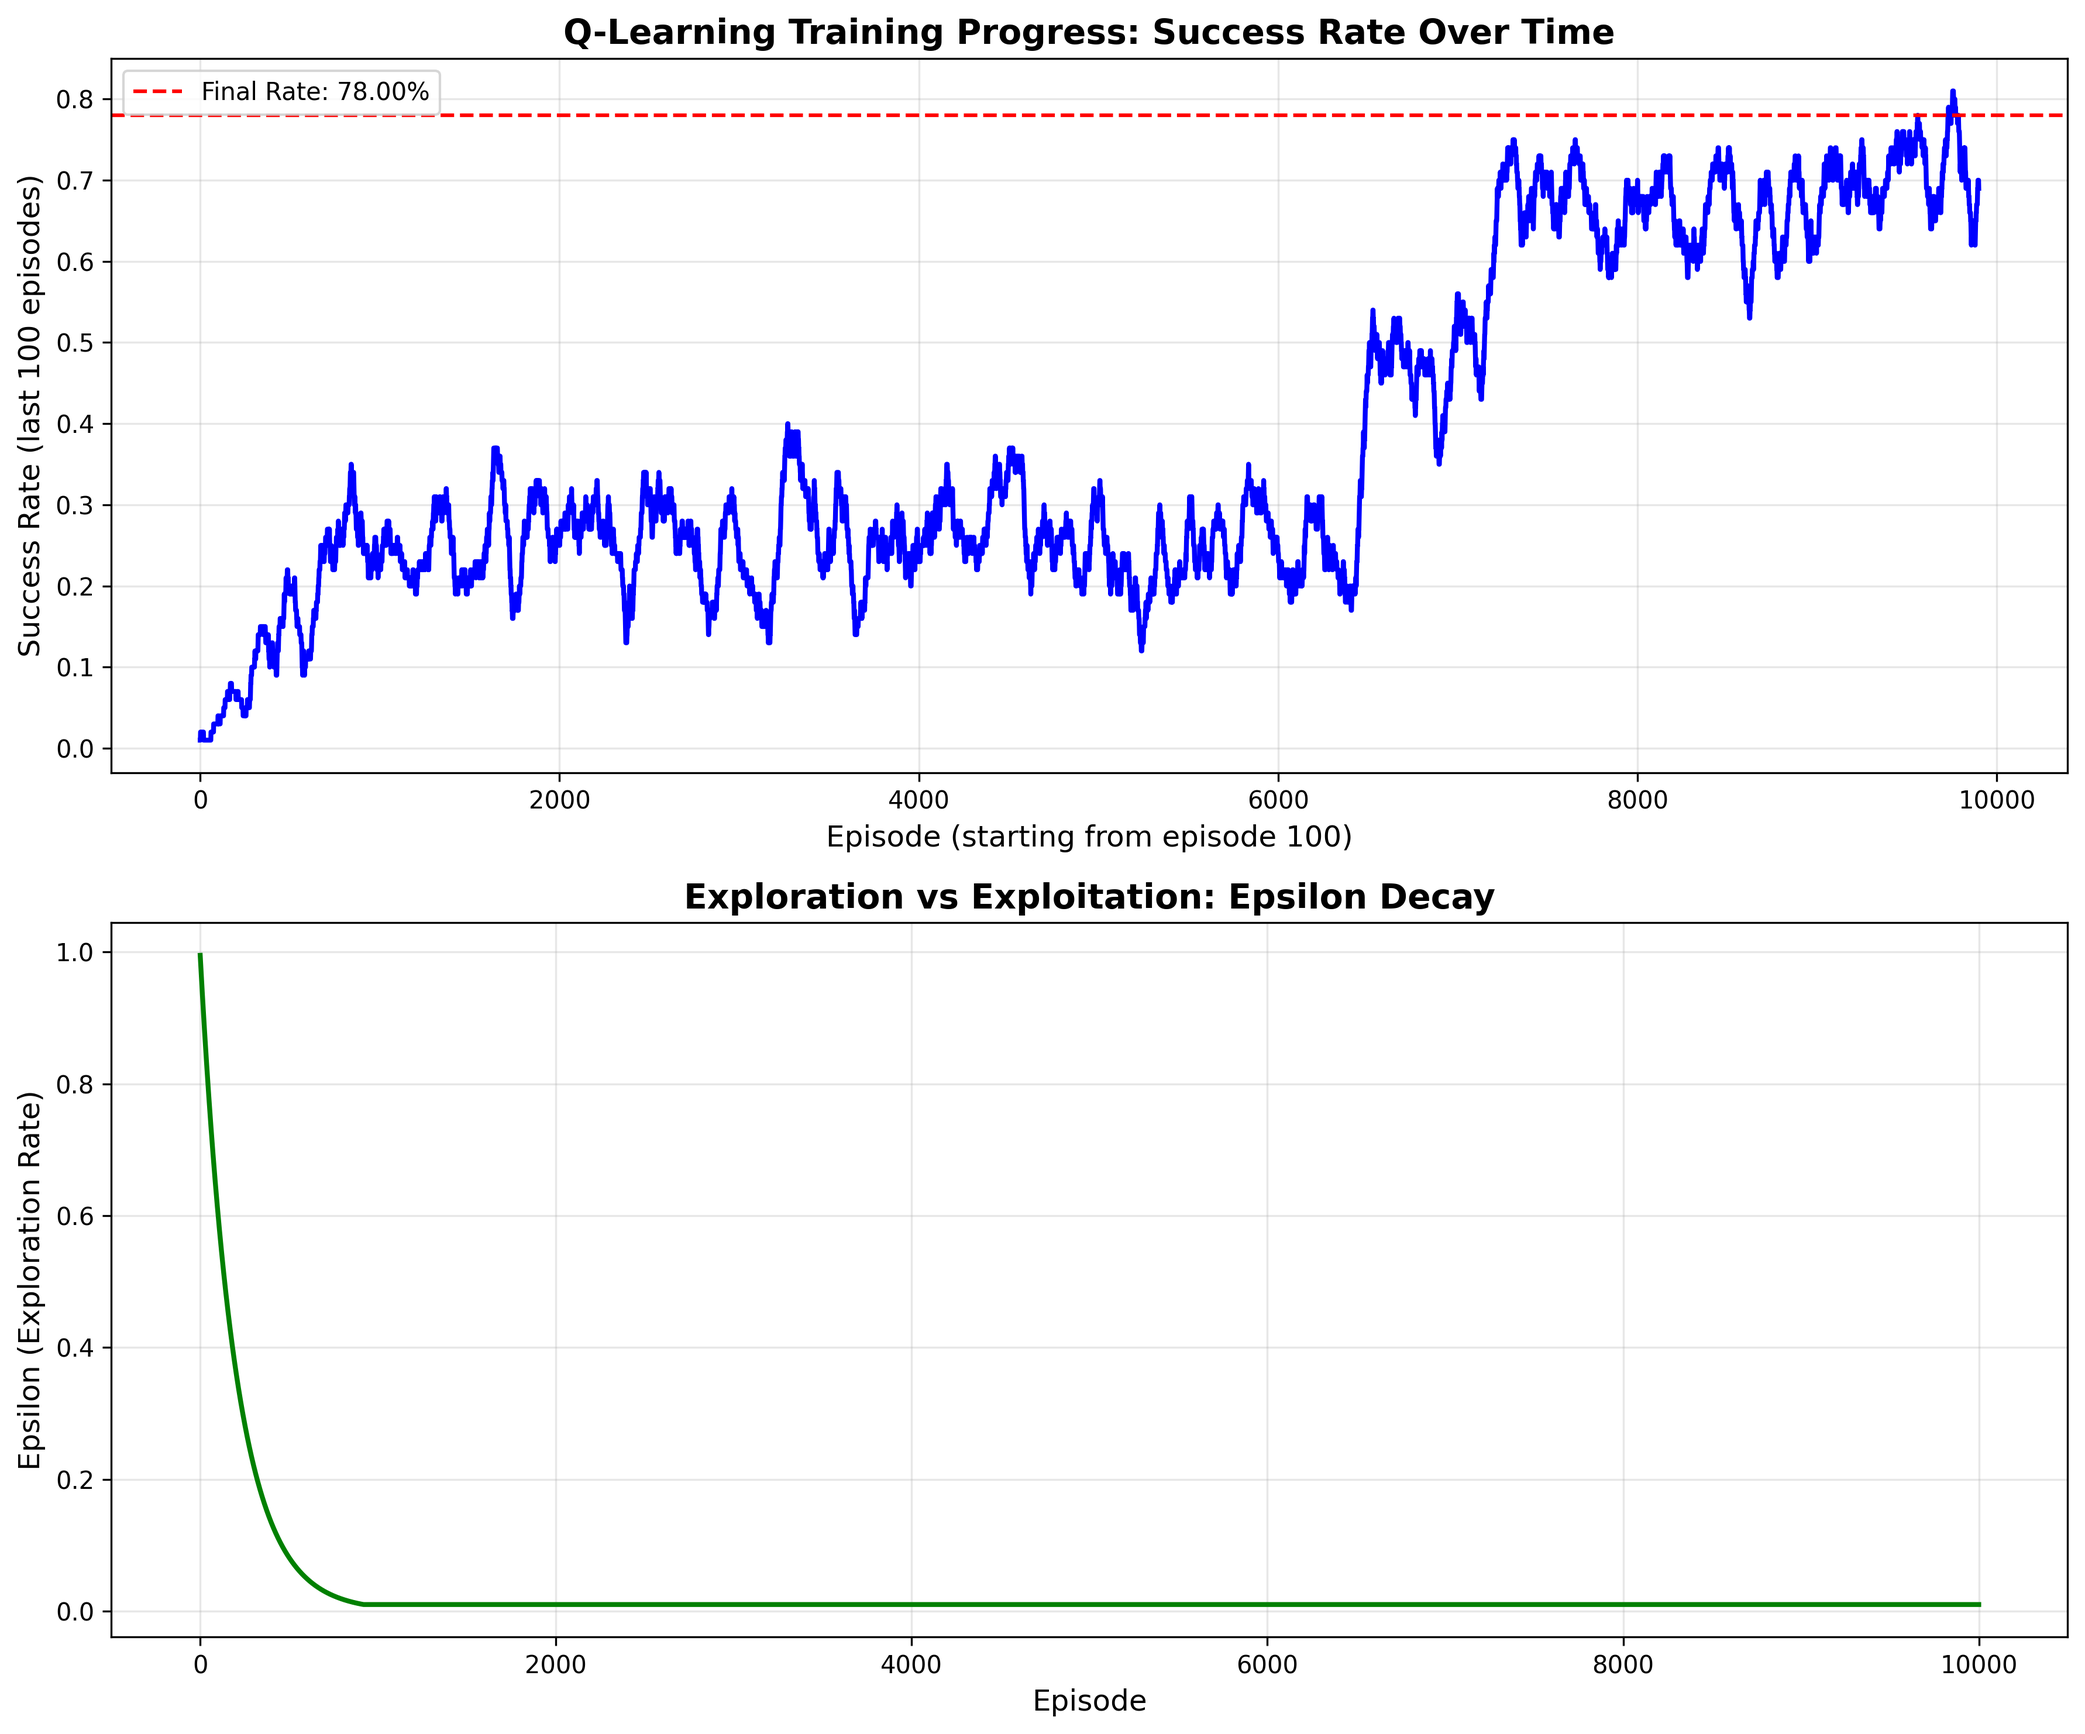
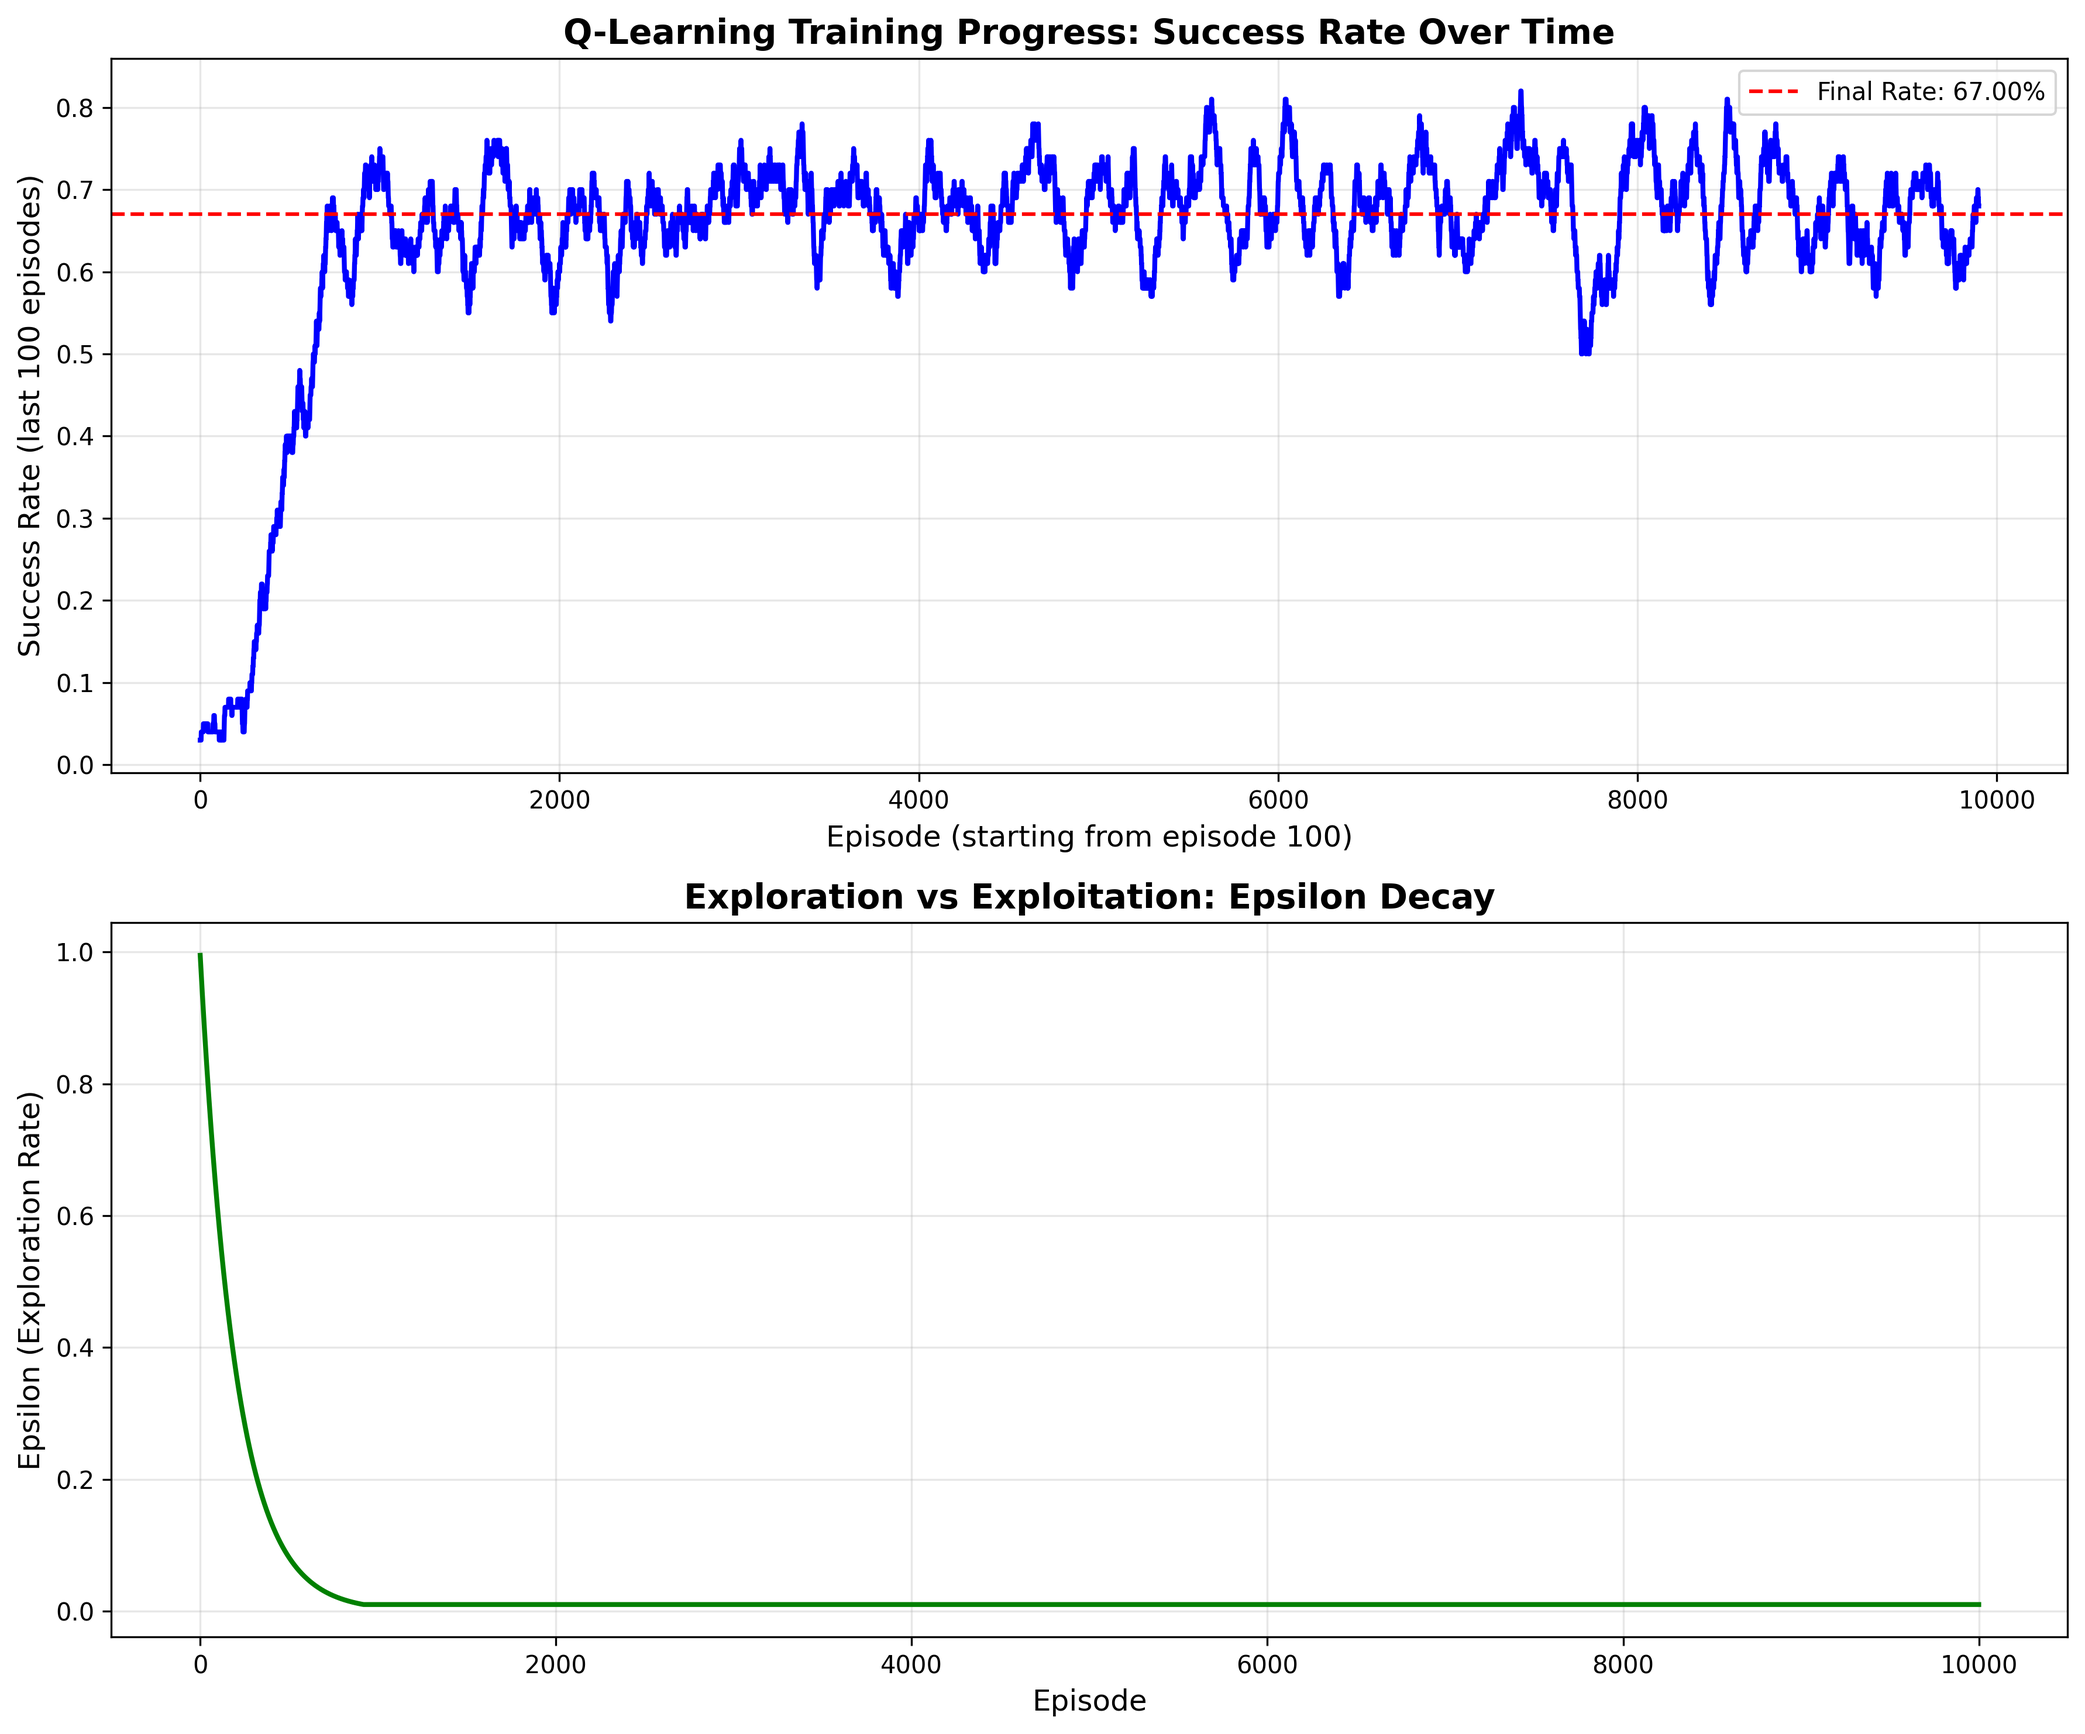
Enhance FrozenLake environment setup with Q-learning implementation and step-by-step playback feature

Changed region(s): [[0.0934, 0.031, 0.9966, 0.2794], [0.0934, 0.1862, 0.654, 0.4345]]

diff --git a/frozenlake_02.py b/frozenlake_02.py
@@ -1,31 +1,205 @@
+# ================================
+# FrozenLake Q-learning (with Step Playback)
+# ================================
+# Install (if needed):
+#   pip install gymnasium
+# Optional (only for 'human' windowed renders): pip install pygame
+
 import gymnasium as gym
-import time 
-# Create the FrozenLake environment (deterministic version for initial setup)
-# env = gym.make('FrozenLake-v1', is_slippery=False, render_mode='ansi')
-env = gym.make('FrozenLake-v1', map_name="4x4", is_slippery=True, render_mode='ansi') 
+import numpy as np
+import time
+from typing import Tuple
 
-# Reset the environment to get the initial state
-state, info = env.reset() 
-env.render()
-# state = env.reset()
+# ---------------------------
+# 1) Create the environment
+# ---------------------------
+# Slippery version (stochastic), as in typical labs:
+env = gym.make("FrozenLake-v1", map_name="4x4", is_slippery=True, render_mode="ansi")
 
-print("Initial state:", state)
-print("Environment render:")
-print(env.render())
-print("Action space:", env.action_space)
-print("Observation space:", env.observation_space)
+n_states = env.observation_space.n
+n_actions = env.action_space.n
 
+print("Action space:", env.action_space)            # Discrete(4)
+print("Observation space:", env.observation_space)  # Discrete(16)
 
+# ---------------------------
+# (Optional) Quick random run
+# ---------------------------
+def play_random_episode(env, sleep: float = 0.2):
+    state, info = env.reset()
+    done = False
+    total_reward = 0
+    print("\nRandom policy episode (for illustration):")
+    print(env.render())
+    while not done:
+        action = env.action_space.sample()
+        next_state, reward, terminated, truncated, info = env.step(action)
+        done = terminated or truncated
+        total_reward += reward
+        print(env.render())
+        time.sleep(sleep)
+        state = next_state
+    print(f"Finished. Reward: {total_reward}")
 
-done = False 
-state, info = env.reset() 
-env.render() 
- 
-while not done: 
-    action = env.action_space.sample()  # Pick a random action 
-    state, reward, done, truncated, info = env.step(action) 
-    env.render() 
-    time.sleep(1)  # Pause to see each move 
-    if done: 
-        print(f"Episode finished. Reward: {reward}") 
-        break
+# Uncomment to see a single random episode:
+# play_random_episode(env)
+
+# ---------------------------------------
+# 2) Q-learning hyperparameters & memory
+# ---------------------------------------
+Q = np.zeros((n_states, n_actions), dtype=np.float32)
+
+alpha = 0.1         # learning rate
+gamma = 0.99        # discount factor
+epsilon = 1.0       # starting exploration rate
+epsilon_min = 0.01
+epsilon_decay = 0.9995    # decay per episode (tune as desired)
+episodes = 30000          # more episodes helps slippery lake converge
+max_steps_per_episode = 200
+
+rng = np.random.default_rng(42)  # reproducible exploration
+
+def epsilon_greedy_action(state: int) -> int:
+    if rng.random() < epsilon:
+        return env.action_space.sample()
+    return int(np.argmax(Q[state]))
+
+# ----------------------------
+# 3) Training loop (Q-learning)
+# ----------------------------
+def train():
+    global epsilon
+    rewards_history = []
+    for ep in range(episodes):
+        state, info = env.reset()
+        total_reward = 0
+
+        for t in range(max_steps_per_episode):
+            action = epsilon_greedy_action(state)
+            next_state, reward, terminated, truncated, info = env.step(action)
+            done = terminated or truncated
+
+            # Q-learning update
+            best_next = np.max(Q[next_state])
+            td_target = reward + gamma * best_next * (0 if done else 1)
+            Q[state, action] = (1 - alpha) * Q[state, action] + alpha * td_target
+
+            state = next_state
+            total_reward += reward
+            if done:
+                break
+
+        # epsilon decay
+        epsilon = max(epsilon_min, epsilon * epsilon_decay)
+        rewards_history.append(total_reward)
+
+        # occasional training log
+        if (ep + 1) % 5000 == 0:
+            avg_last_5k = np.mean(rewards_history[-5000:])
+            print(f"Episode {ep+1}/{episodes} | epsilon={epsilon:.3f} | "
+                  f"Avg reward (last 5k): {avg_last_5k:.3f}")
+    return rewards_history
+
+print("\n=== Training Q-learning agent on FrozenLake-v1 (slippery) ===")
+train_rewards = train()
+
+# ---------------------------------
+# 4) Derive greedy policy from Q(s)
+# ---------------------------------
+policy = np.argmax(Q, axis=1)  # shape: (n_states,)
+
+# Actions: 0=LEFT, 1=DOWN, 2=RIGHT, 3=UP
+action_to_arrow = {0: "←", 1: "↓", 2: "→", 3: "↑"}
+action_to_name = {0: "LEFT", 1: "DOWN", 2: "RIGHT", 3: "UP"}
+
+def decode_map(env) -> np.ndarray:
+    desc = env.unwrapped.desc  # bytes array of shape (nrow, ncol)
+    grid = np.array([[c.decode("utf-8") for c in row] for row in desc])
+    return grid
+
+def print_policy_grid(env, policy):
+    grid = decode_map(env)
+    nrow, ncol = grid.shape
+    out = []
+    for s in range(n_states):
+        r, c = divmod(s, ncol)
+        cell = grid[r, c]
+        if cell in ("S", "H", "G"):
+            out.append(cell)
+        else:
+            out.append(action_to_arrow[int(policy[s])])
+    print("\nLearned greedy policy (arrows). S=start, G=goal, H=hole:")
+    for r in range(nrow):
+        row_str = " ".join(out[r*ncol:(r+1)*ncol])
+        print(row_str)
+
+print_policy_grid(env, policy)
+
+# ------------------------------------------------
+# 5) Evaluate the learned policy over 100 episodes
+# ------------------------------------------------
+def run_greedy_episode(env, render: bool = False, sleep: float = 0.1) -> Tuple[float, int]:
+    state, info = env.reset()
+    total_reward, steps = 0.0, 0
+    done = False
+
+    while not done and steps < max_steps_per_episode:
+        action = int(np.argmax(Q[state]))
+        next_state, reward, terminated, truncated, info = env.step(action)
+        done = terminated or truncated
+        total_reward += reward
+        steps += 1
+
+        if render:
+            print(env.render())
+            time.sleep(sleep)
+
+        state = next_state
+    return total_reward, steps
+
+N_EVAL = 100
+successes, total_steps = 0, 0
+
+for _ in range(N_EVAL):
+    r, steps = run_greedy_episode(env, render=False)
+    successes += int(r > 0.0)
+    total_steps += steps
+
+success_rate = 100.0 * successes / N_EVAL
+avg_steps = total_steps / N_EVAL
+
+print(f"\n=== Evaluation over {N_EVAL} episodes ===")
+print(f"Successes: {successes}/{N_EVAL} ({success_rate:.1f}%)")
+print(f"Average steps per episode: {avg_steps:.1f}")
+
+# ------------------------------------------------------------
+# 6) NEW: Step-by-step playback of a single greedy-policy run
+# ------------------------------------------------------------
+def run_and_show_episode(env, Q, sleep: float = 0.5, max_steps: int = 100):
+    """Run one greedy episode using the learned Q-table and show steps."""
+    state, info = env.reset()
+    done = False
+    total_reward, steps = 0, 0
+
+    print("\nAgent run (greedy policy):")
+    print(env.render())  # initial map/frame
+
+    while not done and steps < max_steps:
+        action = int(np.argmax(Q[state]))
+        next_state, reward, terminated, truncated, info = env.step(action)
+        done = terminated or truncated
+        total_reward += reward
+        steps += 1
+
+        # Show step, action, and current frame
+        print(f"\nStep {steps}: Action = {action} ({action_to_name[action]})")
+        print(env.render())
+        time.sleep(sleep)
+
+        state = next_state
+
+    print(f"\nEpisode finished after {steps} steps. "
+          f"Reward = {total_reward} ({'SUCCESS' if total_reward > 0 else 'FAIL'})")
+
+# Uncomment to watch a single run with the learned policy:
+run_and_show_episode(env, Q, sleep=0.4, max_steps=100)
